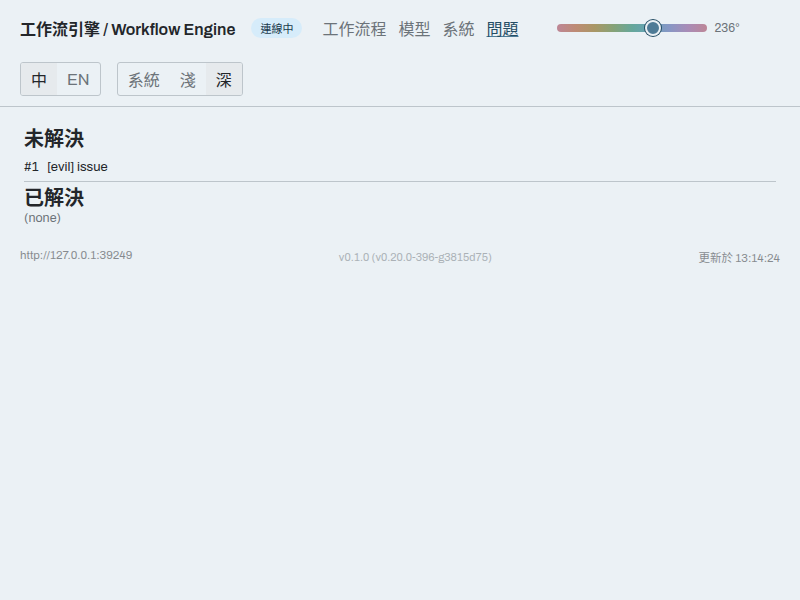
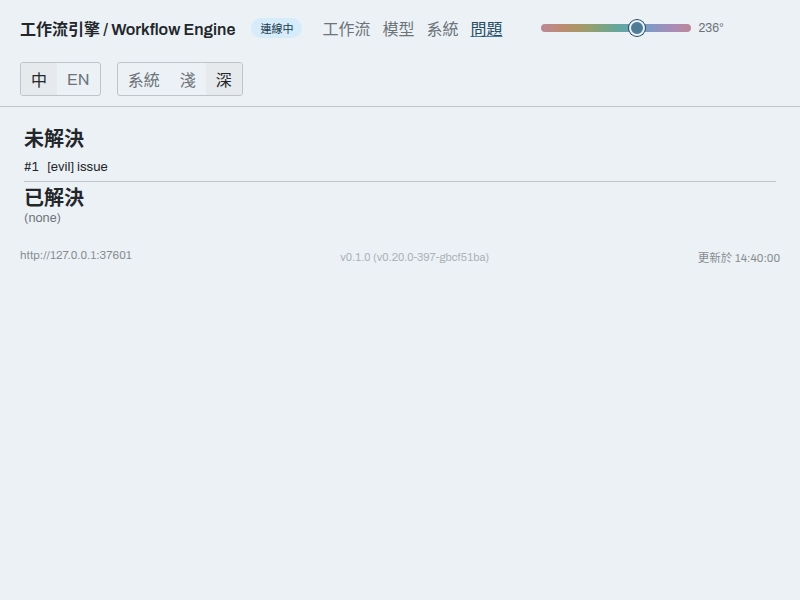
fix(v29f): REQ-162 — 第四群,八條低影響中的五條;三條查證後不列為缺陷
全回歸 416 檔 / 3005 通過 / 0 失敗。tsc 兩份設定皆 exit 0。

B23 與 B30 偏離的不只是設計稿,是本 repo 自己的 REQ-137 —— 它的驗收文字逐字寫著
「模態(text+image → text)」與「全部 / 遠端 / 本機」。稽核記成「與設計稿的差異」,
查帳本才看到需求本來就這麼寫。

B32 的上下文格式不是排版問題:fmtContext 的 .replace(/\.0$/,'') 讓 1,048,576 與
1,000,000 印出同一個 "1M",兩個不同長度變得無法區分。

System 作為主題標籤另有獨立理由:它和同一份 LABELS 裡上一行的 System 分頁名撞字。

三條查證後不列為缺陷,理由登記以免下一輪重新調查:
  B17 品牌半 —— README 字面即「工作流引擎 / Workflow Engine」,strings.js 留著記錄
      該決定的註解。參考「實作」會切換,但 DES-209 裁定 oracle 是 README。
  B29 滑桿上限 —— README 未規定 max;clampHue 合約 0..359 有測試釘著,360 ≡ 0。
  B31 ✓ upstream —— declaredSource 是 v26 DES-179 的刻意決定,明文
      「declared, not probed」。壓成「是/否」是刪掉一個可觀測性決定。

過程偏差,記錄而非略過:這一群先改後測,與其餘各群的紅先行相反。事後補了 UT-272,
但「先看到紅」沒有發生。

Claude-Session: https://claude.ai/code/session_01Fxyx6H8N3HcHBBWga6siqD

diff --git a/src/dashboard/ui/models.js b/src/dashboard/ui/models.js
@@ -23,23 +23,25 @@ import { el, currentLang } from './dom.js';
 
 // Columns, in REQ-137's order (DES-213) — the header row's own labels; `key` must match a
 // `sortKeyOf`/`modelRow` column name.
+// [v29f, REQ-162] Column names from the handoff's own STR table. REQ-137's own acceptance text
+// already said 穩定度 and 基準分數; 推理 matched neither it nor the design.
 const COLUMNS = [
   { key: 'model', zh: '模型', en: 'Model' },
   { key: 'provider', zh: '供應商', en: 'Provider' },
   { key: 'aliases', zh: '別名', en: 'Aliases' },
   { key: 'context', zh: '上下文', en: 'Context' },
-  { key: 'price', zh: '價格', en: 'Price' },
+  { key: 'price', zh: '價格 / M tokens', en: 'Price / M tokens' },
   { key: 'tools', zh: '工具', en: 'Tools' },
-  { key: 'effort', zh: '推理', en: 'Effort' },
+  { key: 'effort', zh: '努力程度', en: 'Effort' },
   { key: 'modalities', zh: '模態', en: 'Modalities' },
   { key: 'latency', zh: '延遲', en: 'Latency' },
-  { key: 'stability', zh: '穩定性', en: 'Stability' },
-  { key: 'benchmarks', zh: '基準', en: 'Benchmarks' },
+  { key: 'stability', zh: '穩定度', en: 'Stability' },
+  { key: 'benchmarks', zh: '基準分數', en: 'Benchmarks' },
   { key: 'location', zh: '位置', en: 'Location' },
 ];
 
 const LABELS = {
-  zh: { search: '搜尋模型…', allProviders: '全部供應商', all: '全部', remote: '遠端', local: '本地' },
+  zh: { search: '搜尋模型…', allProviders: '全部供應商', all: '全部', remote: '遠端', local: '本機' },
   en: { search: 'Search models…', allProviders: 'All providers', all: 'All', remote: 'Remote', local: 'Local' },
 };
 

diff --git a/src/dashboard/lib/model.js b/src/dashboard/lib/model.js
@@ -102,7 +102,9 @@ function fmtContext(contextWindow) {
   if (isAbsent(contextWindow)) return '—';
   const unit = contextWindow >= 1e6 ? 1e6 : contextWindow >= 1e3 ? 1e3 : 1;
   const suffix = contextWindow >= 1e6 ? 'M' : contextWindow >= 1e3 ? 'k' : '';
-  return unit === 1 ? String(contextWindow) : (contextWindow / unit).toFixed(1).replace(/\.0$/, '') + suffix;
+  // [v29f, REQ-162] the trailing `.0` stays: the handoff prints `1.0M`, and stripping it made a
+  // 1,048,576-token window read `1M` — the same figure a 1,000,000 one would.
+  return unit === 1 ? String(contextWindow) : (contextWindow / unit).toFixed(1) + suffix;
 }
 
 function fmtPrice(price, lang) {
@@ -116,7 +118,9 @@ function fmtModalities(modalities) {
   const ins = modalities && Array.isArray(modalities.in) ? modalities.in : [];
   const outs = modalities && Array.isArray(modalities.out) ? modalities.out : [];
   if (!ins.length && !outs.length) return '—';
-  return `${ins.join(',')} → ${outs.join(',')}`;
+  // [v29f, REQ-162] `+`, not `,` — REQ-137's OWN acceptance text spells the cell as
+  // `text+image → text`, so this diverged from this repo's requirement, not only the handoff.
+  return `${ins.join('+')} → ${outs.join('+')}`;
 }
 
 // `TTFT 900ms · p50 6.8s` (TASK-222's own pinned literal) — `latency`/`benchmarks` are always

diff --git a/tests/unit/dashboard-lib-model.test.js b/tests/unit/dashboard-lib-model.test.js
@@ -288,3 +288,21 @@ describe('lib/model.js: stability and location render in the viewer’s language
     expect(sortKeys.location).toBe('remote');
   });
 });
+
+describe('lib/model.js: the two cell formats REQ-137 spells out (UT-272, v29f, REQ-162)', () => {
+  // REQ-137's own acceptance text writes the modalities cell as `text+image → text`. The build
+  // joined with a comma, so this diverged from THIS repo's requirement, not only from the handoff.
+  it('modalities join with + , as the requirement spells it', () => {
+    const { cells } = modelRow({ model: 'm', provider: 'p', modalities: { in: ['text', 'image'], out: ['text'] } }, 'zh');
+    expect(cells).toContain('text+image → text');
+  });
+
+  it('a context window keeps its decimal — 1,048,576 is not printed as 1M', () => {
+    // Stripping the trailing `.0` made a 1 MiB window and a 1,000,000 window render identically.
+    const a = modelRow({ model: 'm', provider: 'p', contextWindow: 1048576 }, 'zh').cells;
+    const b = modelRow({ model: 'm', provider: 'p', contextWindow: 1000000 }, 'zh').cells;
+    expect(a).toContain('1.0M');
+    expect(b).toContain('1.0M');
+    expect(modelRow({ model: 'm', provider: 'p', contextWindow: 1300000 }, 'zh').cells).toContain('1.3M');
+  });
+});

diff --git a/src/dashboard/ui/app.js b/src/dashboard/ui/app.js
@@ -41,16 +41,18 @@ import { render as renderHome, onTick as onTickHome } from './home.js';
 let DEMO = null;
 let DEMO_AVAILABLE = false;
 
+// [v29f, REQ-162] `工作流` (not `工作流程`) and `Auto` (not `System`) — the handoff's own STR
+// table. `System` as a THEME label also collides with the `System` TAB one line above it.
 const LABELS = {
   zh: {
-    workflows: '工作流程', models: '模型', system: '系統', issues: '問題',
+    workflows: '工作流', models: '模型', system: '系統', issues: '問題',
     live: '連線中', offline: '離線', degraded: '部分異常', checking: '連線中…',
     dark: '深', light: '淺', system_theme: '系統', updated: '更新於',
   },
   en: {
     workflows: 'Workflows', models: 'Models', system: 'System', issues: 'Issues',
     live: 'Live', offline: 'Offline', degraded: 'Degraded', checking: 'Connecting…',
-    dark: 'Dark', light: 'Light', system_theme: 'System', updated: 'Updated',
+    dark: 'Dark', light: 'Light', system_theme: 'Auto', updated: 'Updated',
   },
 };
 function L(lang, key) {

diff --git a/src/dashboard/ui/workflow.js b/src/dashboard/ui/workflow.js
@@ -50,7 +50,7 @@ import { clockNow } from './clock.js';
 
 const NS = 'http://www.w3.org/2000/svg';
 const COLUMNS = {
-  zh: ['執行ID', '狀態', '版本', '觸發者', '開始時間', '耗時', '節點數', 'Tokens', '費用'],
+  zh: ['執行 ID', '狀態', '版本', '觸發者', '開始時間', '耗時', '節點', 'Tokens', '費用'],
   en: ['Run ID', 'Status', 'Version', 'Triggered by', 'Started', 'Duration', 'Agents', 'Tokens', 'Cost'],
 };
 

diff --git a/.sdlc/features/001-remote-workflow-engine/06-impl-log.md b/.sdlc/features/001-remote-workflow-engine/06-impl-log.md
@@ -8394,3 +8394,37 @@ footer  http://127.0.0.1:8951  v0.1.0 (…)  v0.20.0: applied  更新於 13:08:3
 ```
 
 導覽列文字不含 `v\d+\.\d+\.\d+`、不含 `applied`;標記的 x 介於品牌與第一個分頁之間。
+
+---
+
+## v29f 第四群 — REQ-162(八條低影響,五條實作、三條不列為缺陷)
+
+### IMPL-319 — 五條字串與格式
+- **traces:** REQ-162
+- **files:** `src/dashboard/ui/app.js`, `src/dashboard/ui/models.js`,
+  `src/dashboard/lib/model.js`, `src/dashboard/ui/workflow.js`
+- **tests:** UT-272(2 例,`lib/model.js` 的兩個純函式格式)
+
+**B23 與 B30 偏離的不只是設計稿,是本 repo 自己的 REQ-137。** 它的驗收文字逐字寫著
+「模態(`text+image → text`)」與「全部 / 遠端 / **本機**」。稽核把兩者記成「與設計稿的差異」,
+查帳本才看到需求本來就這麼寫 —— 實作同時偏離了需求與設計。
+
+**B32 的上下文格式不是排版問題。** `fmtContext` 的 `.replace(/\.0$/, '')` 讓
+1,048,576 與 1,000,000 印出同一個字串 `1M` —— 兩個不同的上下文長度變得無法區分。
+
+`System` 作為主題標籤另有一個獨立理由:它和同一份 `LABELS` 裡上一行的 `System` **分頁名**撞字。
+
+### 三條查證後不列為缺陷(理由登記,以免下一輪重新調查)
+
+- **B17 品牌半。** README 字面即「brand "工作流引擎 / Workflow Engine"」,
+  `lib/strings.js` 留著記錄該決定的註解。參考**實作**會隨語言切換,
+  但 DES-209 裁定 oracle 是 README,不是參考實作。
+- **B29 滑桿上限。** README 未規定 max;`clampHue` 合約為 `0..359` 且有測試釘著,360 ≡ 0。
+- **B31 `✓ upstream`。** `declaredSource` 是 v26 DES-179 的刻意決定
+  (「declarations with `declaredSource`」「labelled *declared, not probed*」)。
+  壓成「是 / 否」是刪掉一個可觀測性決定。
+
+### 過程上的一個偏差,記錄而非略過
+
+**這一群我先改後測**,與 v29 其餘各群的紅先行相反。事後補了 UT-272 鎖住兩個純函式格式,
+但「先看到紅」這一步沒有發生 —— 對純字串替換風險低,仍是流程上的偏差。
